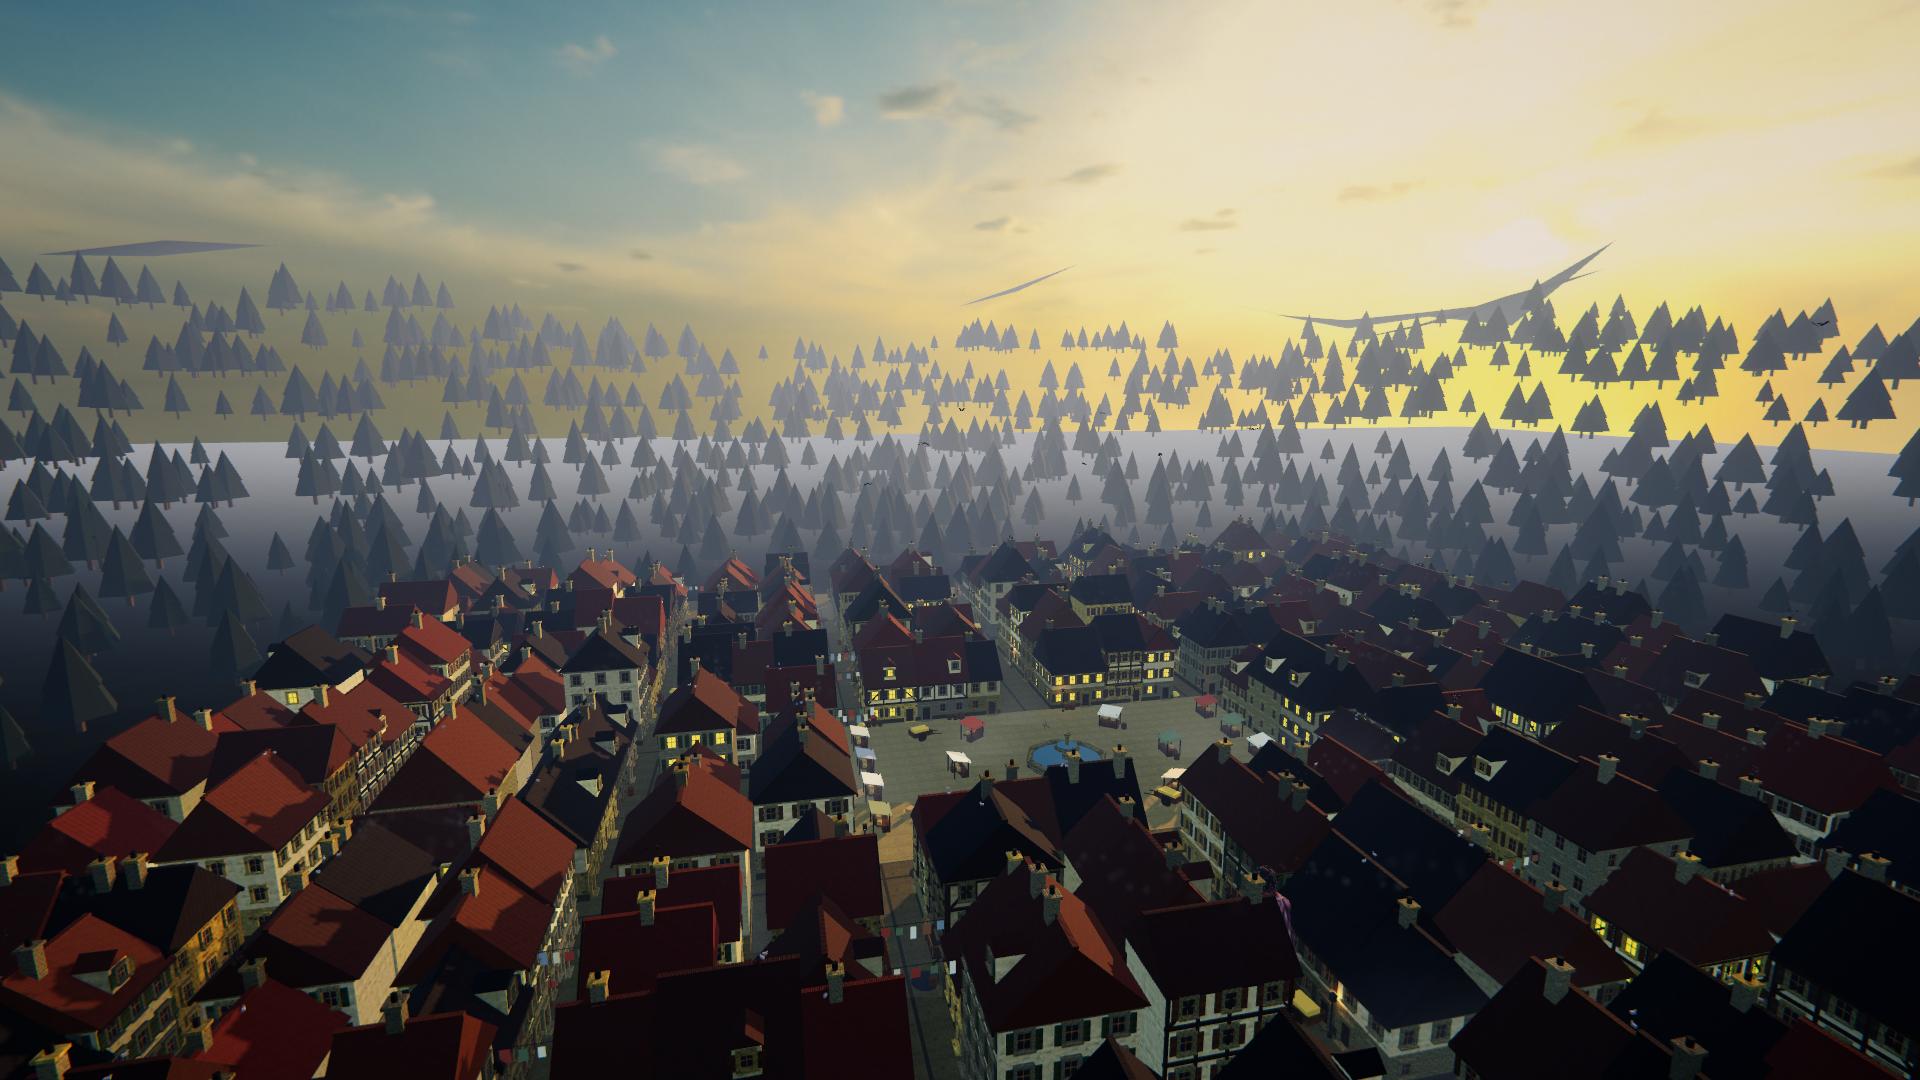
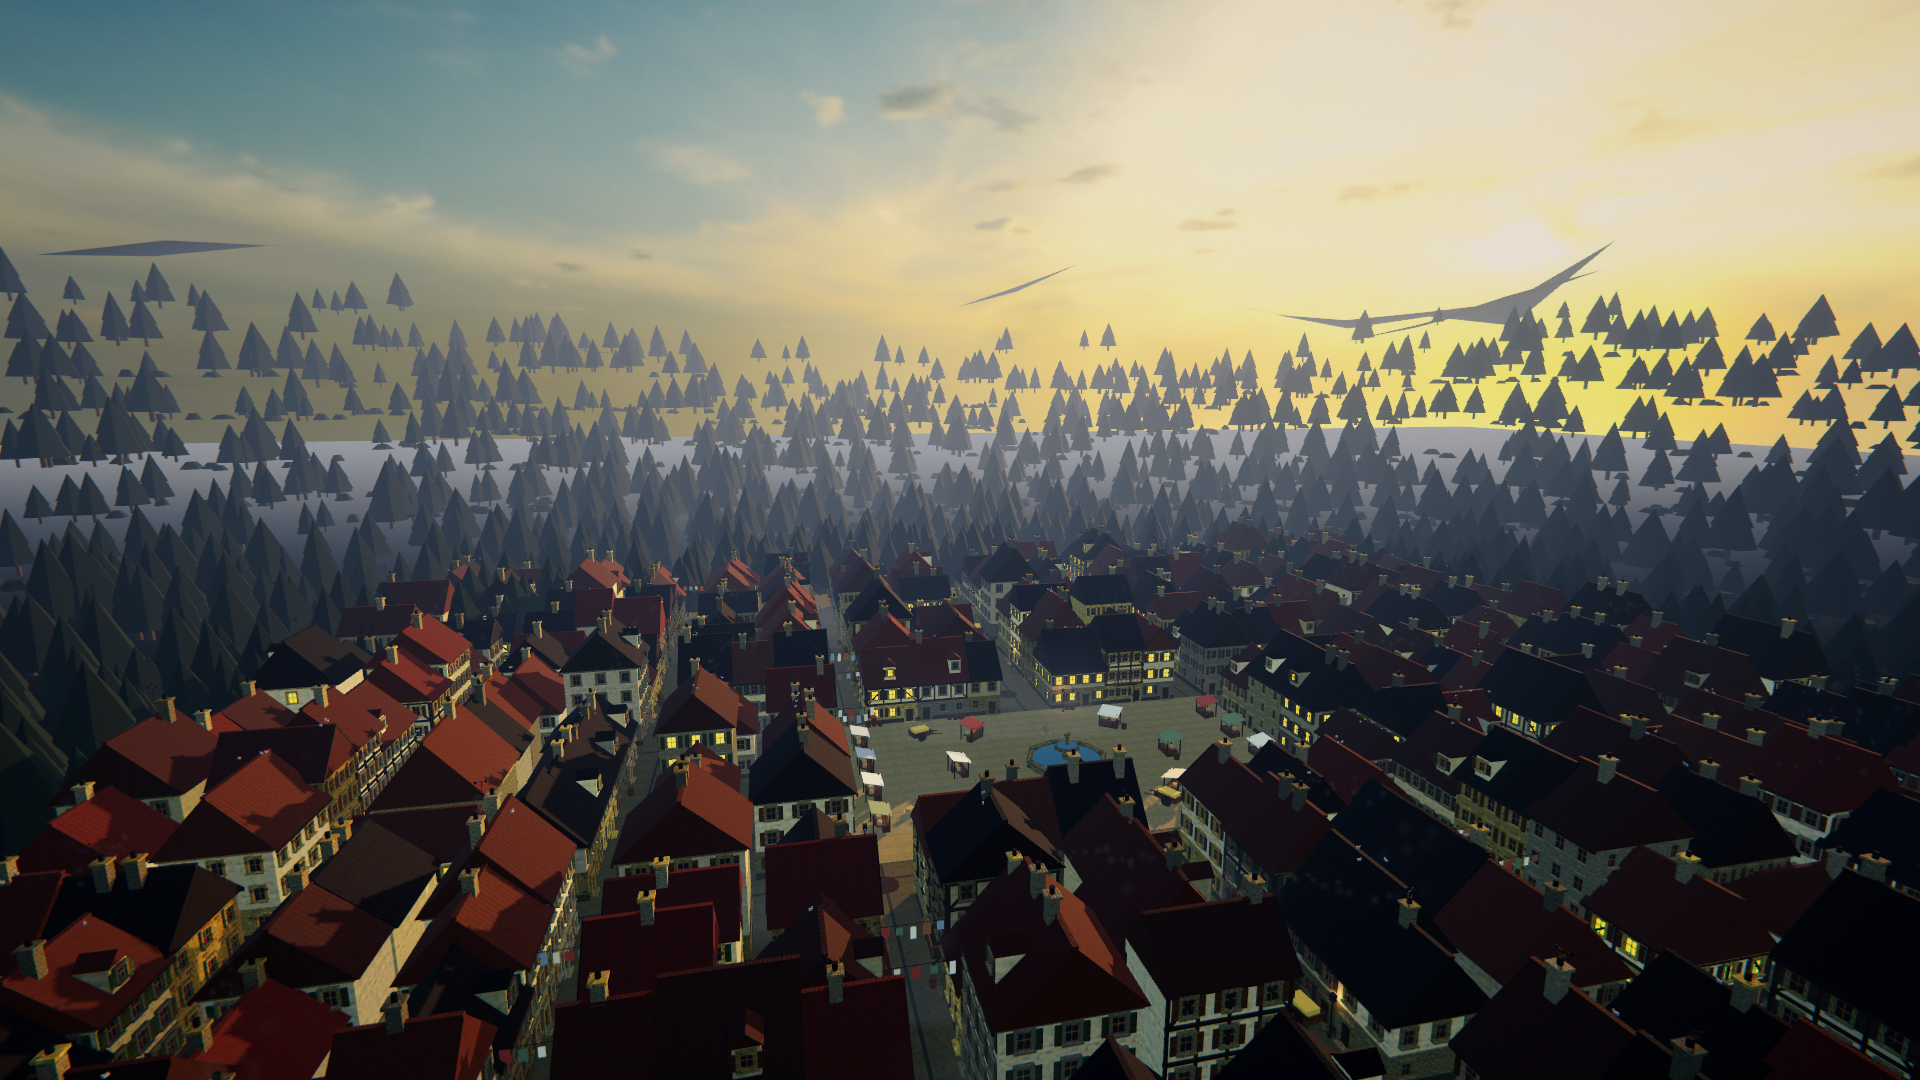
Harness: fractional screenshot names; longer blade trail

Changed region(s): [[0.0, 0.2444, 1.0, 0.5806], [0.6562, 0.825, 0.6875, 0.8556], [0.0, 0.6722, 0.0312, 0.7028]]

diff --git a/unity/Assets/ODM/OdmController.cs b/unity/Assets/ODM/OdmController.cs
@@ -330,7 +330,7 @@ namespace ODM
                 }
                 var go = new GameObject("BladeTrail"); go.transform.SetParent(bladeRoots[i], false); go.transform.localPosition = new Vector3(0f, 0f, ext * 0.95f);
                 var t = go.AddComponent<TrailRenderer>();
-                t.time = 0.16f; t.startWidth = 0.28f; t.endWidth = 0.02f; t.minVertexDistance = 0.02f; t.numCapVertices = 3; t.alignment = LineAlignment.View;
+                t.time = 0.26f; t.startWidth = 0.32f; t.endWidth = 0.02f; t.minVertexDistance = 0.02f; t.numCapVertices = 3; t.alignment = LineAlignment.View;
                 t.sharedMaterial = Transparent(Mats.Unlit(Color.white), new Color(1.7f, 1.9f, 2.4f, 0.85f));
                 var g = new Gradient(); g.SetKeys(new[] { new GradientColorKey(new Color(1f, 1f, 1f), 0f), new GradientColorKey(new Color(0.6f, 0.8f, 1f), 1f) }, new[] { new GradientAlphaKey(0.9f, 0f), new GradientAlphaKey(0f, 1f) });
                 t.colorGradient = g; t.shadowCastingMode = UnityEngine.Rendering.ShadowCastingMode.Off; t.receiveShadows = false; t.emitting = false;

diff --git a/unity/Assets/Shared/Harness.cs b/unity/Assets/Shared/Harness.cs
@@ -49,7 +49,7 @@ namespace Shared
             }
             if (shotIdx < shotAt.Length && t >= shotAt[shotIdx])
             {
-                var path = System.IO.Path.Combine(shotDir, "play_" + shotAt[shotIdx].ToString("0") + "s.png");
+                var path = System.IO.Path.Combine(shotDir, "play_" + shotAt[shotIdx].ToString("0.0").Replace(".", "_") + "s.png");
                 ScreenCapture.CaptureScreenshot(path); Debug.Log("[Harness] screenshot " + path); shotIdx++;
             }
             if (fps)
